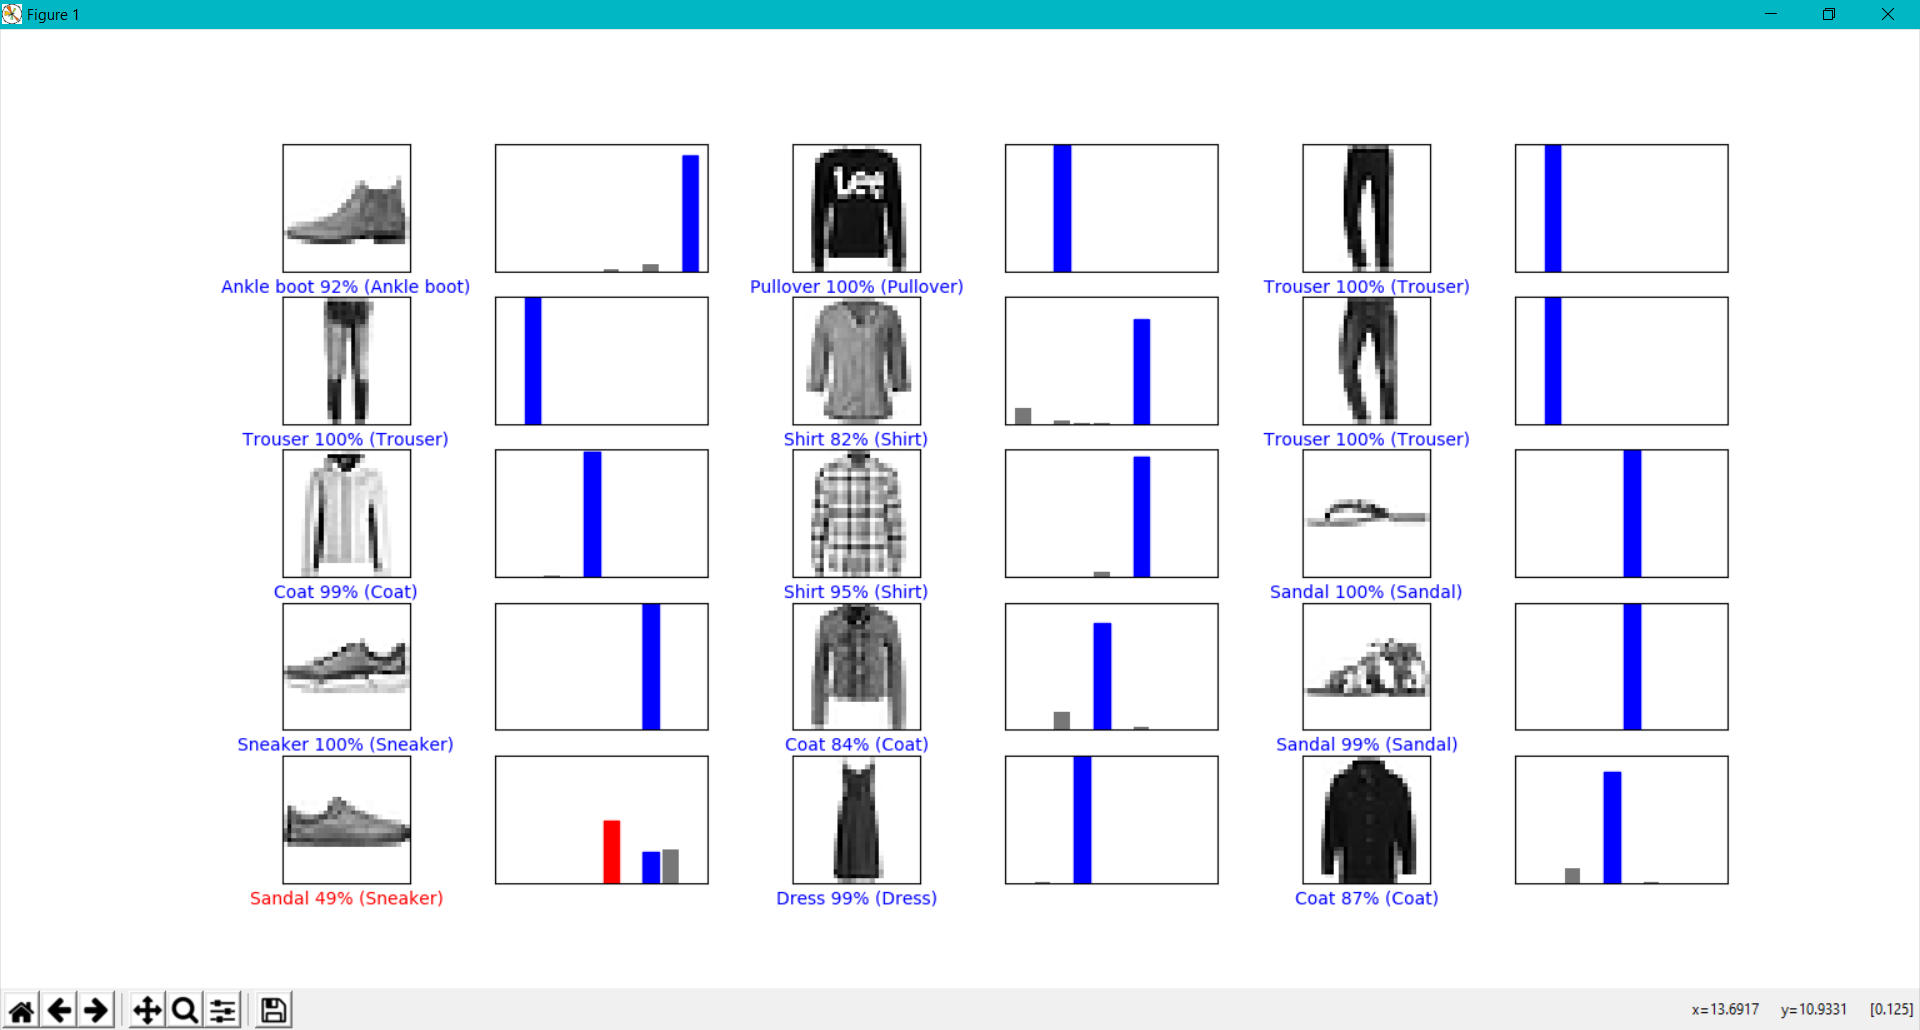
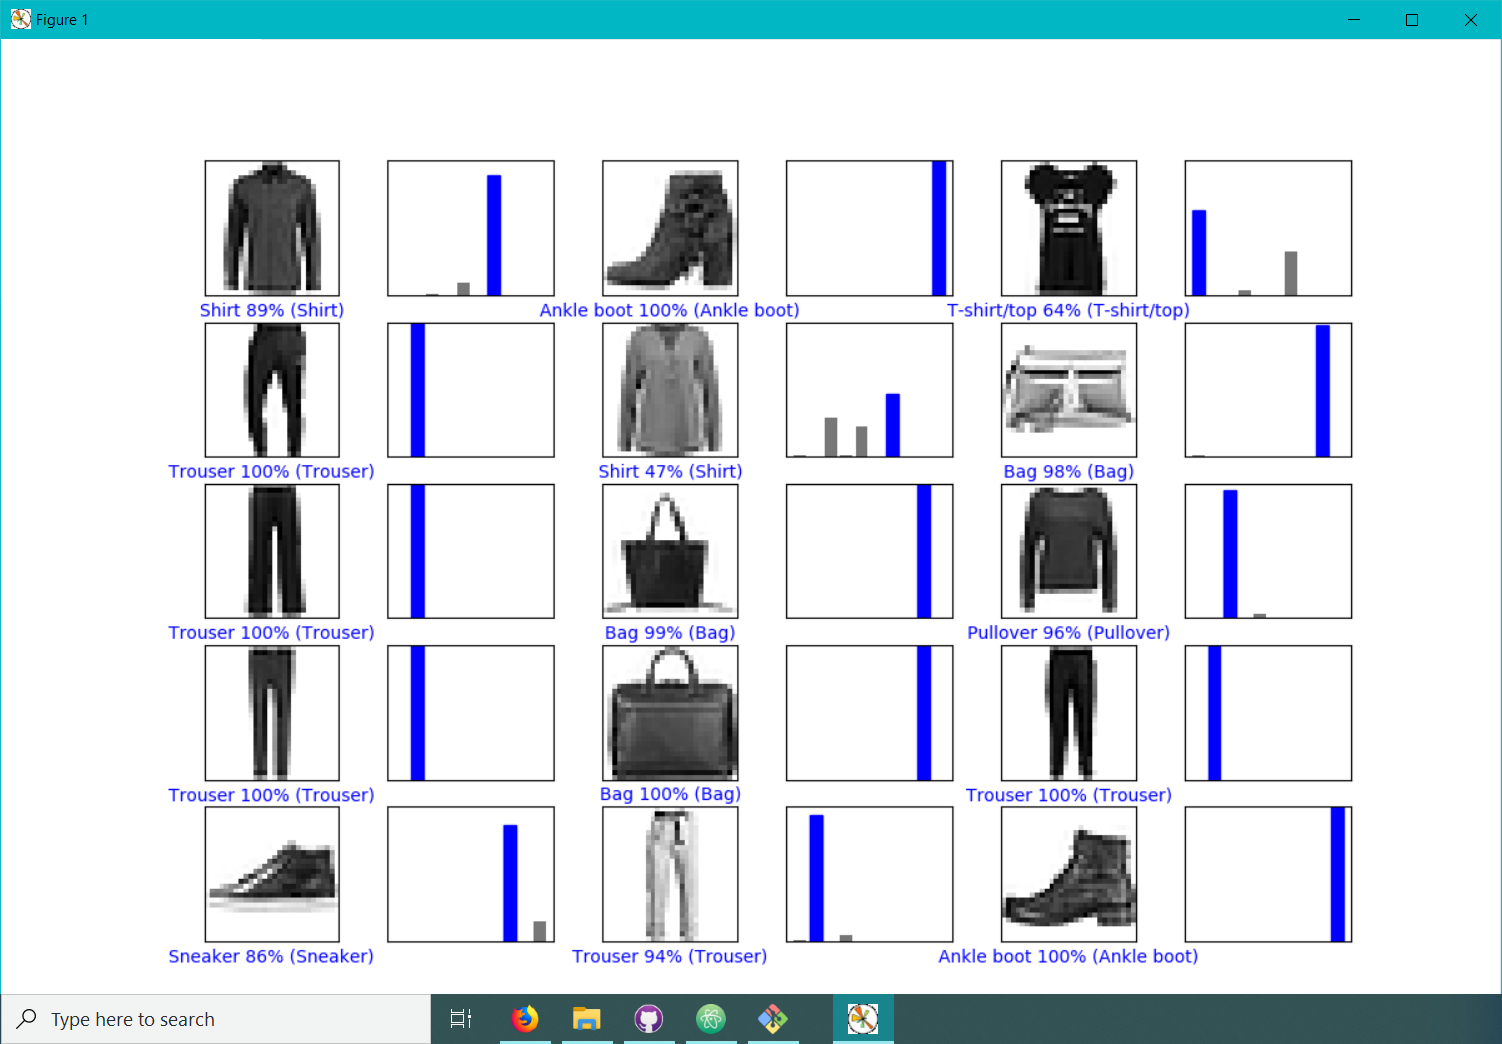
Everything except ex2

Changed region(s): [[0.0, 0.1243, 1.0, 1.0], [0.0, 0.0, 1.0, 0.0621]]

diff --git a/Labs/Lab 9/main.py b/Labs/Lab 9/main.py
@@ -35,14 +35,14 @@ train_images = train_images / 255.0
 test_images = test_images / 255.0
 
 plt.figure(figsize=(10,10))
-for i in range(25):
-    plt.subplot(5,5,i+1)
-    plt.xticks([])
-    plt.yticks([])
-    plt.grid(False)
-    plt.imshow(train_images[i], cmap=plt.cm.binary)
-    plt.xlabel(class_names[train_labels[i]])
-plt.show()
+# for i in range(25):
+#     plt.subplot(5,5,i+1)
+#     plt.xticks([])
+#     plt.yticks([])
+#     plt.grid(False)
+#     plt.imshow(train_images[9000+i], cmap=plt.cm.binary)
+#     plt.xlabel(class_names[train_labels[9000+i]])
+# plt.show()
 
 model = keras.Sequential([
     keras.layers.Flatten(input_shape=(28, 28)),
@@ -110,9 +110,9 @@ num_images = num_rows*num_cols
 plt.figure(figsize=(2*2*num_cols, 2*num_rows))
 for i in range(num_images):
   plt.subplot(num_rows, 2*num_cols, 2*i+1)
-  plot_image(i, predictions, test_labels, test_images)
+  plot_image(9000+i, predictions, test_labels, test_images)
   plt.subplot(num_rows, 2*num_cols, 2*i+2)
-  plot_value_array(i, predictions, test_labels)
+  plot_value_array(9000+i, predictions, test_labels)
 plt.show()
 
 # Grab an image from the test dataset

diff --git a/Labs/Lab 9/Lab 9.md b/Labs/Lab 9/Lab 9.md
@@ -6,6 +6,7 @@
 
 #### TensorFlow Classification for 9000-9014
 
+<!-- Fix ex2 - doesn't print -->
 ![ex1](ex1.PNG)
 ![ex2](ex2.PNG)
 ![ex3](ex3.PNG)
